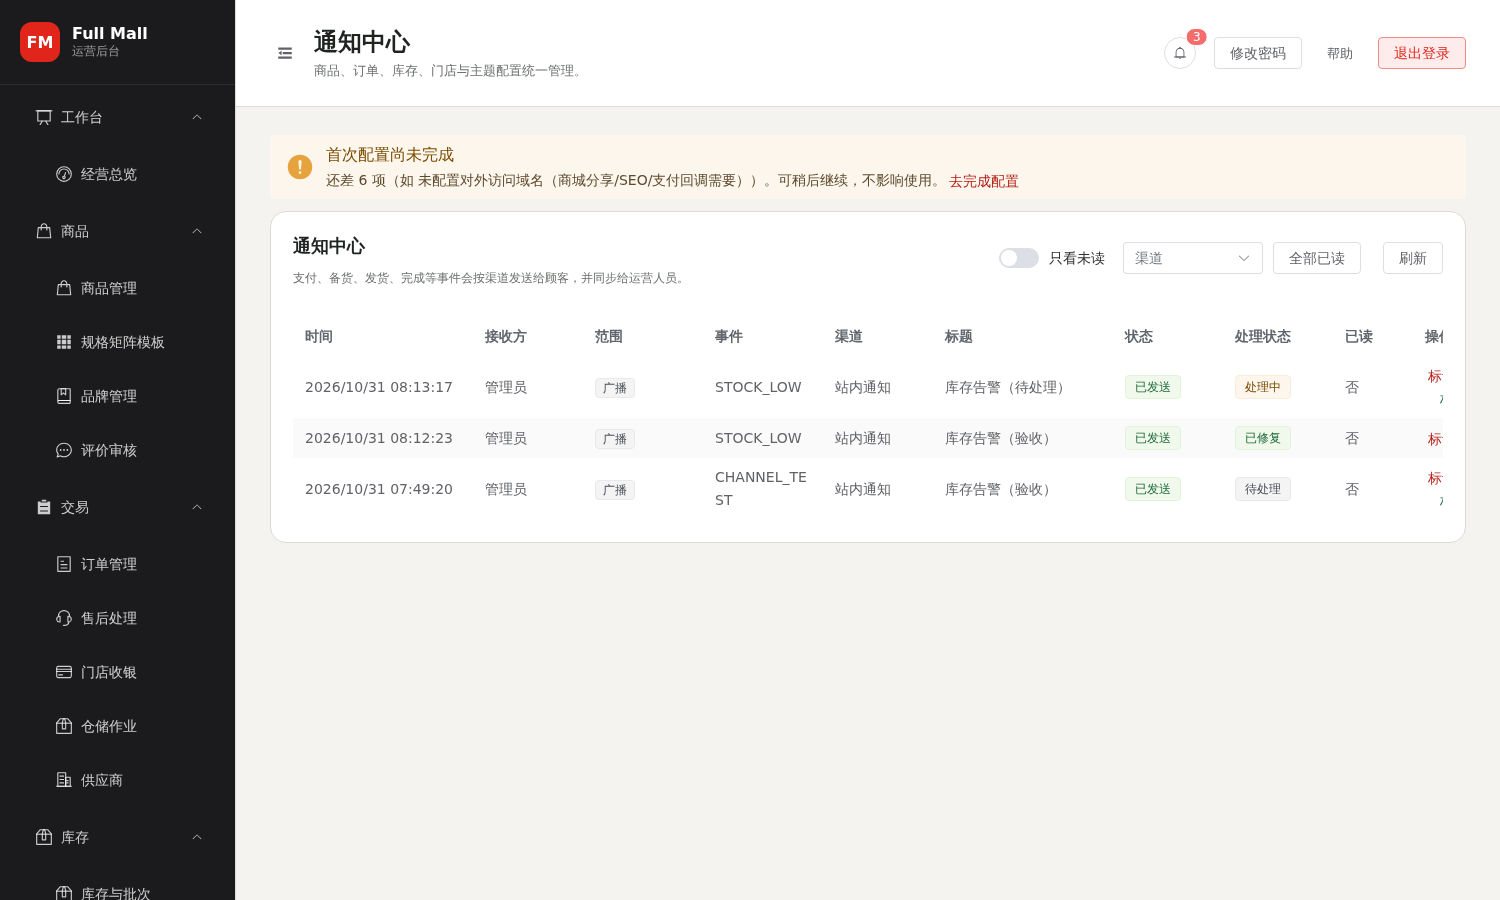
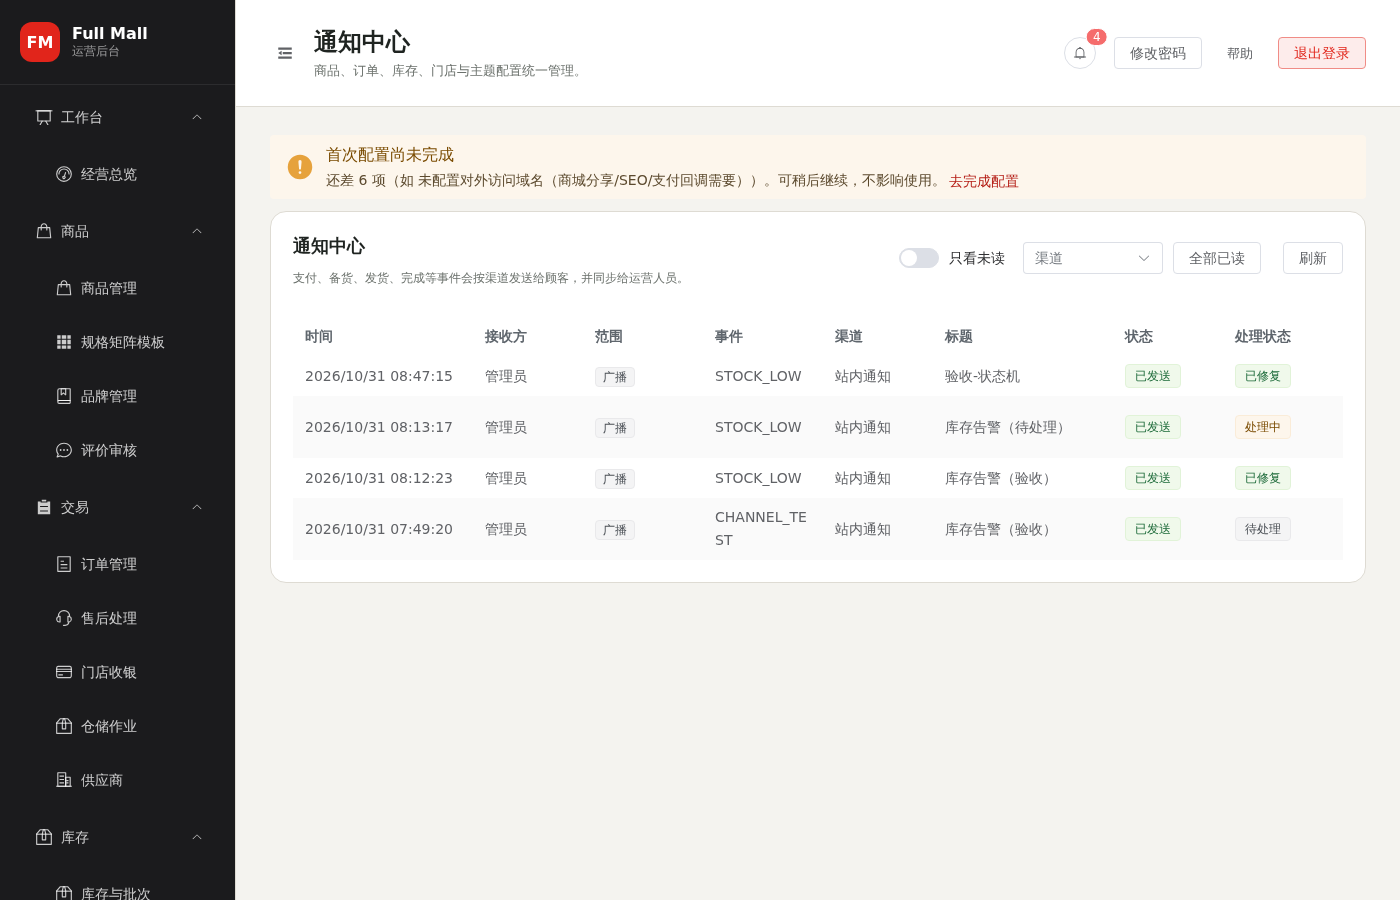
docs: 8 项补齐的证据（请求/返回/期望 + 截图）与人工验收清单

diff --git a/docs/GOAL_EVIDENCE.md b/docs/GOAL_EVIDENCE.md
@@ -1,0 +1,49 @@
+# 8 项补齐 · 证据与验收
+
+> 采集时间：2026-10-31 · API `http://127.0.0.1:41280` · admin `http://127.0.0.1:41281`
+> 每条都给出「请求 → 实际返回 → 期望」，截图在 `docs/evidence/`。
+
+## 一、接口证据（脚本采集，原样输出）
+
+| # | 项 | 请求 | 实际 | 期望 | 结论 |
+|---|---|---|---|---|---|
+| ③ | 通知状态机-造数据 | `POST /admin/v1/notifications/test-send` `{"channel":"IN_APP","eventType":"STOCK_LOW"}` | 200 | 200 | ✅ |
+| ③④ | 通知字段 | `GET /admin/v1/notifications?limit=1` | `{"state":"OPEN","link":"/inventory","eventType":"STOCK_LOW"}` | state=OPEN、link=/inventory | ✅ |
+| ③ | 认领 | `POST /admin/v1/notifications/{id}/ack` | 200 changed=true | 200 | ✅ |
+| ③ | 标记修复 | `POST /admin/v1/notifications/{id}/resolve` | 200 changed=true | 200 | ✅ |
+| ③ | 修复后状态 | `GET /admin/v1/notifications?limit=1` | `{"state":"RESOLVED"}` | RESOLVED | ✅ |
+| ⑤ | AI 空问题 | `POST /admin/v1/ai/ask` `{"question":"   "}` | 400 `AI_QUESTION_REQUIRED` | 400 | ✅ |
+| ⑤ | AI 禁词 | `POST /admin/v1/ai/ask` `{"question":"你这个傻逼机器人"}` | 200 `fallback=true`（"问题包含不当内容，已转人工处理"） | 200 拒答 | ✅ |
+| ⑤ | 未命中清单 | `GET /admin/v1/ai/unanswered?limit=5` | 200 数组，含 `question` 原文 | 200 | ✅ |
+| ⑥ | 编码建议 | `GET /admin/v1/codes/suggest?type=BRAND` | 200 `{"code":"BRAND-4A8U9-1655"}` | 200 且未被占用 | ✅ |
+| ⑥ | 编码建议 | `GET /admin/v1/codes/suggest?type=COUPON` | 200 `{"code":"CPN-4A8UN-1623"}` | 200 | ✅ |
+| ② | 能力就绪 | `GET /admin/v1/readiness` | 200 含 storage/export/payment/sms/logistics/moderation/ai | 200 | ✅ |
+| ⑦ | 迁移校验 | `python3 scripts/migrate-storage.py --verify --dir …` | `库内 local 记录 2 条；缺失 1` | 能发现缺失 | ✅（并真的发现了 1 个丢失文件） |
+
+## 二、页面证据（Playwright 截图）
+
+| 截图 | 覆盖项 | 页面可见内容 |
+|---|---|---|
+| `docs/evidence/notifications-state.png` | ③ 状态机 | 表头含「处理状态」；行内显示"处理中"；操作列有「查看 / 标记已修复」 |
+| `docs/evidence/ai-unanswered.png` | ⑤ 未命中清单 | AI 客服页出现「未命中问题（补知识库用）」，1 行"被拦截（不当内容）· 你这个傻逼机器人" |
+| `docs/evidence/code-generate.png` | ⑥ 编码生成 | 新建品牌弹窗内点「生成」，编码框从空变为 `BRAND-4KDVH-1983` |
+
+## 三、代码与规则证据
+
+| # | 项 | 落地内容 | 提交 |
+|---|---|---|---|
+| ① | AGENTS §13.1 | 状态必须内联切换、禁止重复启停按钮、失败保持原状态、生命周期状态不用布尔开关 | `dd8c673` |
+| ② | 枚举/裸码 CI | `scripts/check-enum-inputs.py` 接入 `make contract-check`；11 处业务编码登记理由；税则辖区改国家下拉 | `dd8c673` |
+| ③④ | 通知状态机 + link | `state/ack_by/ack_at/resolved_by/resolved_at/link` 列；ack/resolve 端点；前端状态列与按钮；`linkFor(eventType)` | `2735956` |
+| ⑤ | 未命中清单页 | AiView 内新增表格（不新增路由） | `416e1ca` |
+| ⑥ | 编码生成 | `GET /admin/v1/codes/suggest`（后端实测占用，20 次仍冲突则 503）+ 三个页面「生成」按钮 | `f159d83` |
+| ⑦ | 迁移脚本 | `scripts/migrate-storage.py --verify/--copy`，逐文件 sha256；跨云明确报错 | `2053bff` |
+| ⑧ | AI 接模型 | `AiMediaService.chat` + 只喂片段 + 失败 503 `AI_ANSWER_FAILED`；引用仍来自检索 | `d71ecc8` |
+
+## 四、未验证/不适用（如实列出）
+
+| 项 | 状态 | 原因 |
+|---|---|---|
+| ⑧ 真实模型答复 | 未验证 | 本机没有可用的 chat 供应商（ollama 未运行）；代码路径由 8 条单测覆盖 |
+| ⑦ 跨云迁移 | 未实现 | local 与 COS/七牛之间迁移需各自 SDK 与凭据，脚本明确报错退出，不静默跳过 |
+| 促销/门店启停 | 不适用 | 促销是 DRAFT/ACTIVE/ENDED 生命周期；admin 无门店列表页 |

diff --git a/docs/ACCEPTANCE_MANUAL.md b/docs/ACCEPTANCE_MANUAL.md
@@ -1,0 +1,94 @@
+# 人工验收清单（8 项补齐全）
+
+> 环境：admin `http://127.0.0.1:41281`，账号 `admin / Admin@123456`；API `http://127.0.0.1:41280`。
+> 每项 30 秒内可验完；「通过标准」写的是**你能亲眼看到的结果**。
+
+## 准备（30 秒）
+
+```bash
+cd /data/full-mall
+bash scripts/dev-stack.sh status      # API 41280 / admin 41281 / storefront 41285 都应 UP
+```
+
+---
+
+## ① 列表状态内联切换（AGENTS §13.1）
+
+1. 打开「市场配置」→ 找到 HK 行 → 点状态开关。
+2. 期望：弹出确认框；确认后该行变为「已停用」，**不需要打开编辑弹窗**。
+3. 打开「员工与权限」→ 对自己那行：开关应为禁用（防自锁）。
+4. 打开「第三方服务 → 优惠券」列表（营销 → 优惠券）→ 状态列是开关，启用=开始发放、停用=停止发放。
+
+通过标准：三处都能在列表内切换；失败时状态保持原样并弹错误。
+
+## ② 枚举/裸码检查（CI）
+
+```bash
+cd /data/full-mall && make contract-check
+```
+
+通过标准：输出包含
+`兜底检查通过（93 处已登记）` 与 `枚举检查通过（11 处已登记）`，且退出码 0。
+
+## ③ 通知状态机（已读 ≠ 已修复）
+
+1. 打开「通知中心」。
+2. 表头应有「处理状态」列；新通知显示「待处理」。
+3. 点「认领」→ 该行变「处理中」；点「标记已修复」→ 变「已修复」。
+
+通过标准：状态按 待处理 → 处理中 → 已修复 变化，且刷新页面后仍是新状态。
+
+## ④ 通知跳转由后端下发
+
+1. 在「通知中心」找一条事件为 `STOCK_LOW`（库存告警）的通知。
+2. 点「查看」。
+
+通过标准：跳到「库存与批次」页；不再是前端自己猜的映射（后端 `link` 字段为 `/inventory`）。
+
+## ⑤ AI 未命中问题清单
+
+1. 打开「AI 客服」。
+2. 在提问框输入一句含辱骂词的话（例：`你这个傻逼机器人`）→ 点提问。
+3. 期望：回答区显示「问题包含不当内容，已转人工处理」。
+4. 页面下方「未命中问题（补知识库用）」表格出现该问题原文。
+
+通过标准：拒答 + 清单里能看到这条问题。
+
+## ⑥ 业务编码一键生成
+
+1. 打开「商品 → 品牌管理」→ 点「新建」。
+2. 点编码输入框旁的「生成」。
+
+通过标准：编码框自动填入形如 `BRAND-4KDVH-1983` 的值；重复点不会给出已存在的编码。
+
+## ⑦ 存储一致性校验脚本
+
+```bash
+cd /data/full-mall
+python3 scripts/migrate-storage.py --verify --dir /data/full-mall/server/data/assets
+```
+
+通过标准：输出「库内 local 记录 N 条；缺失 0；空文件 0」。
+（当前可能有 1 条缺失，是早期目录配错时写进容器文件系统的那张图——这条正是脚本要发现的问题。）
+
+## ⑧ AI 问答（含真实模型开关）
+
+1. 打开「AI 客服」→ 提问「运费怎么算？」。
+2. 当前环境期望：返回 503 `AI_EMBEDDING_NOT_CONFIGURED`，页面显示"未配置向量模型"。
+3. 配置一个 `protocol=openai-embedding` 供应商 + `openai-chat` 供应商，并向 `knowledge_chunk` 灌 FAQ 后重试。
+
+通过标准：
+- 未配置 → 明确的 503 与可操作提示（不是"没有答案"）；
+- 配置后 → 回答带「引用来源」（sourceId + 相关度 + 命中片段），模型不能篡改引用。
+
+---
+
+## 一键复验（接口层）
+
+```bash
+cd /data/full-mall
+make contract-check                     # 规则 + 契约 + 两种扫描
+node scripts/acceptance-check.mjs       # 11 项端到端断言
+```
+
+通过标准：`11/11 通过`。
